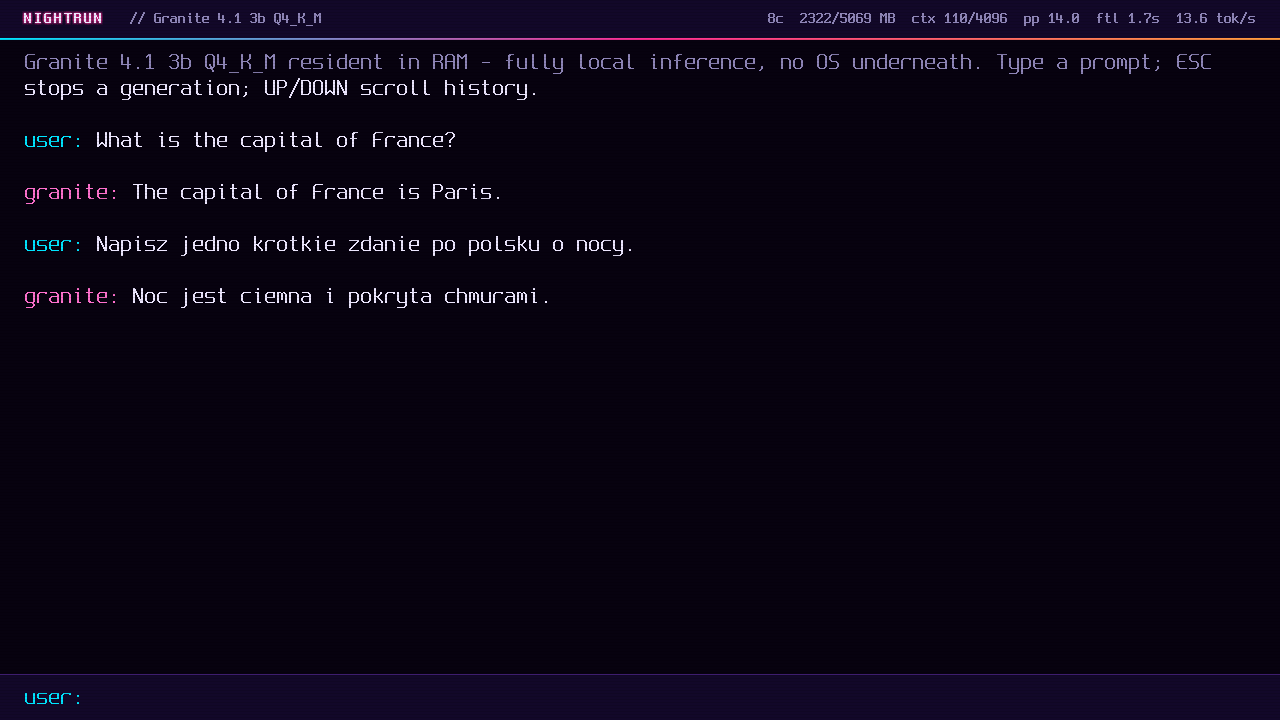
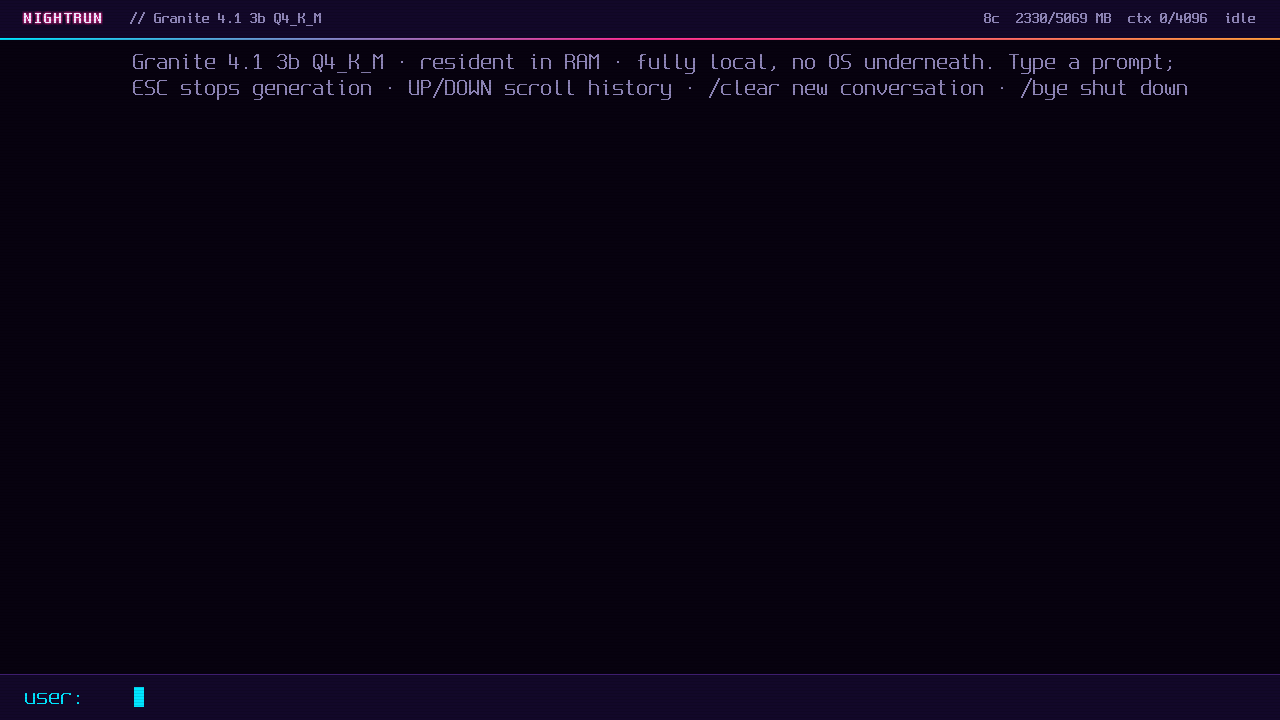
chat ux: fixed content column, two-line intro, /clear, /bye
- all transcript text (user, assistant, system, wrapped continuations)
  and the input line start at one fixed content column; labels render
  left-aligned in their role color; system messages keep the lavender
  accent on every line (the old continuation-color bug made the intro's
  second line white)
- intro is exactly two accent-colored lines: model identity + residency
  on line one, ESC/scroll//clear//bye help on line two
- /clear resets the conversation and KV position without touching the
  resident model; /bye draws a farewell and powers off via UEFI runtime
  services reset (verified: QEMU exits; screendump after /bye finds no
  VM); unknown /commands get a discoverability note instead of being
  sent to the model
- e2e in QEMU (Granite): alignment/intro screenshots, /clear + /bye
  verified; Llama regression clean (5.6s boot, 52 tok/s prefill)

Claude-Session: https://claude.ai/code/session_01KN8jLgUQbmbnQqamZtt1Ur

diff --git a/crates/nr-ui/src/chat.rs b/crates/nr-ui/src/chat.rs
@@ -74,9 +74,10 @@ pub fn draw(
     scroll: usize,
 ) -> usize {
     surf.clear(theme::BG_DEEP);
+    let content_col = "user:".len().max(stats.assistant.len() + 1) + 1;
     status_bar(surf, fonts, stats);
-    input_bar(surf, fonts, input, cursor_on, stats.generating);
-    let scroll = scrollback(surf, fonts, turns, stats.generating, scroll, stats.assistant);
+    input_bar(surf, fonts, input, cursor_on, stats.generating, content_col);
+    let scroll = scrollback(surf, fonts, turns, stats.generating, scroll, stats.assistant, content_col);
     draw::scanlines(surf, 26);
     scroll
 }
@@ -145,7 +146,14 @@ fn status_bar(surf: &mut Surface, fonts: &Fonts, stats: &Stats) {
     draw::text(surf, f, rx, ty, &right, rate_col, 1, 0);
 }
 
-fn input_bar(surf: &mut Surface, fonts: &Fonts, input: &str, cursor_on: bool, generating: bool) {
+fn input_bar(
+    surf: &mut Surface,
+    fonts: &Fonts,
+    input: &str,
+    cursor_on: bool,
+    generating: bool,
+    content_col: usize,
+) {
     let w = surf.width as i32;
     let h = surf.height as i32;
     let y0 = h - INPUT_H;
@@ -158,8 +166,8 @@ fn input_bar(surf: &mut Surface, fonts: &Fonts, input: &str, cursor_on: bool, ge
         draw::text(surf, f, MARGIN, ty, ">> generating - press ESC to stop", theme::TEXT_DIM, 1, 0);
         return;
     }
-    draw::text(surf, f, MARGIN, ty, "user: ", theme::NEON_CYAN, 1, 0);
-    let tx = MARGIN + draw::text_width(f, "user: ", 1, 0);
+    draw::text(surf, f, MARGIN, ty, "user:", theme::NEON_CYAN, 1, 0);
+    let tx = MARGIN + content_col as i32 * f.width as i32;
 
     // Show the tail of the input if it overflows.
     let max_cols = ((w - tx - MARGIN - f.width as i32) / f.width as i32).max(1) as usize;
@@ -182,6 +190,7 @@ fn scrollback(
     generating: bool,
     scroll: usize,
     assistant: &str,
+    content_col: usize,
 ) -> usize {
     let f = &fonts.body;
     let w = surf.width as i32;
@@ -190,38 +199,43 @@ fn scrollback(
     let top = STATUS_H + 10;
     let bottom = h - INPUT_H - 10;
 
-    // Wrap all turns into (color, indent, line) records.
-    let mut lines: Vec<(u32, usize, String)> = Vec::new();
+    // All message text starts at one fixed content column, regardless of
+    // which label (user/llama/qwen/granite/none) precedes it.
+    let _ = assistant;
+    let body_cols = cols.saturating_sub(content_col).max(8);
+
+    // Wrap all turns into (label_color, body_color, label, body) records;
+    // continuation lines carry an empty label.
+    let mut lines: Vec<(u32, u32, String, String)> = Vec::new();
     for (i, turn) in turns.iter().enumerate() {
         if i > 0 {
-            lines.push((0, 0, String::new())); // blank separator
+            lines.push((0, 0, String::new(), String::new())); // separator
         }
-        let prefix = match turn.role {
-            Role::User => String::from("user: "),
+        let label = match turn.role {
+            Role::User => String::from("user:"),
             Role::Llama => {
                 let mut p = String::from(assistant);
-                p.push_str(": ");
+                p.push(':');
                 p
             }
             Role::System => String::new(),
         };
-        let indent = prefix.chars().count();
-        let body_cols = cols.saturating_sub(indent).max(8);
+        // System text keeps its accent color on every line; user/assistant
+        // bodies render in primary.
+        let body_color = match turn.role {
+            Role::System => turn.role.color(),
+            _ => theme::TEXT_PRIMARY,
+        };
         let streaming_tail = generating && i == turns.len() - 1 && turn.role == Role::Llama;
         let mut first = true;
         for line in wrap(&turn.text, body_cols, streaming_tail) {
-            if first {
-                let mut s = prefix.clone();
-                s.push_str(&line);
-                lines.push((turn.role.color(), 0, s));
-                first = false;
-            } else {
-                lines.push((theme::TEXT_PRIMARY, indent, line));
-            }
+            let l = if first { label.clone() } else { String::new() };
+            lines.push((turn.role.color(), body_color, l, line));
+            first = false;
         }
         if first {
-            // Empty turn (streaming just started): show bare prefix.
-            lines.push((turn.role.color(), 0, String::from(prefix.trim_end())));
+            // Empty turn (streaming just started): show the bare label.
+            lines.push((turn.role.color(), body_color, label, String::new()));
         }
     }
 
@@ -233,23 +247,13 @@ fn scrollback(
     let end = lines.len() - scroll;
     let start = end.saturating_sub(max_lines);
     let mut y = top;
-    for (color, indent, line) in &lines[start..end] {
-        if !line.is_empty() {
-            // Prefix in role color, continuation text in primary.
-            let mut assistant_prefix = String::from(assistant);
-            assistant_prefix.push(':');
-            let has_prefix =
-                *indent == 0 && (line.starts_with("user:") || line.starts_with(&assistant_prefix));
-            if has_prefix {
-                let split = line.find(' ').map(|i| i + 1).unwrap_or(line.len());
-                let (pre, rest) = line.split_at(split);
-                draw::text(surf, f, MARGIN, y, pre, *color, 1, 0);
-                draw::text(surf, f, MARGIN + draw::text_width(f, pre, 1, 0), y, rest, theme::TEXT_PRIMARY, 1, 0);
-            } else {
-                let x = MARGIN + *indent as i32 * f.width as i32;
-                let c = if *indent > 0 { theme::TEXT_PRIMARY } else { *color };
-                draw::text(surf, f, x, y, line, c, 1, 0);
-            }
+    let body_x = MARGIN + content_col as i32 * f.width as i32;
+    for (label_color, body_color, label, body) in &lines[start..end] {
+        if !label.is_empty() {
+            draw::text(surf, f, MARGIN, y, label, *label_color, 1, 0);
+        }
+        if !body.is_empty() {
+            draw::text(surf, f, body_x, y, body, *body_color, 1, 0);
         }
         y += line_h;
     }

diff --git a/crates/nr-boot/src/app.rs b/crates/nr-boot/src/app.rs
@@ -256,15 +256,18 @@ fn conventional_ram_mb() -> u32 {
     }
 }
 
-fn chat_loop(p: &mut Platform, surf: &mut nr_gfx::Surface) {
-    let mut turns: Vec<Turn> = Vec::new();
-    turns.push(Turn {
+fn intro_turn(model_name: &str) -> Turn {
+    Turn {
         role: Role::System,
         text: alloc::format!(
-            "{} resident in RAM - fully local inference, no OS underneath. Type a prompt; ESC stops a generation; UP/DOWN scroll history.",
-            p.model_name,
+            "{model_name} · resident in RAM · fully local, no OS underneath. Type a prompt;\nESC stops generation · UP/DOWN scroll history · /clear new conversation · /bye shut down"
         ),
-    });
+    }
+}
+
+fn chat_loop(p: &mut Platform, surf: &mut nr_gfx::Surface) {
+    let mut turns: Vec<Turn> = Vec::new();
+    turns.push(intro_turn(&p.model_name));
     let mut inputline = String::new();
     let mut frame = 0u32;
     let mut last_rate = 0u32;
@@ -282,14 +285,55 @@ fn chat_loop(p: &mut Platform, surf: &mut nr_gfx::Surface) {
                     inputline.pop();
                 }
                 InputEvent::Enter => {
-                    if !inputline.trim().is_empty() {
-                        let prompt = core::mem::take(&mut inputline);
-                        serial_println!("[chat] user: {}", prompt);
-                        turns.push(Turn { role: Role::User, text: prompt.clone() });
-                        scroll = 0; // jump back to live view for the reply
-                        last_rate = generate(p, surf, &prompt, &mut turns, &mut conversation_started, frame);
-                    } else {
-                        inputline.clear();
+                    let prompt = core::mem::take(&mut inputline);
+                    let trimmed = prompt.trim();
+                    scroll = 0;
+                    match trimmed {
+                        "" => {}
+                        "/clear" => {
+                            // Fresh conversation: transcript + KV position
+                            // reset; the model stays resident in RAM.
+                            turns.clear();
+                            turns.push(intro_turn(&p.model_name));
+                            turns.push(Turn {
+                                role: Role::System,
+                                text: String::from("New conversation started."),
+                            });
+                            p.infer.reset();
+                            conversation_started = false;
+                            p.pp_milli = 0;
+                            p.ftl_ms = 0;
+                            last_rate = 0;
+                            serial_println!("[chat] /clear - conversation reset (model resident)");
+                        }
+                        "/bye" => {
+                            turns.push(Turn {
+                                role: Role::System,
+                                text: String::from("Shutting down. Goodbye!"),
+                            });
+                            draw_chat(p, surf, &turns, "", frame, 0, false, 0);
+                            serial_println!("[chat] /bye - shutting down");
+                            stall_us(800_000);
+                            // Real UEFI power-off via runtime services.
+                            uefi::runtime::reset(
+                                uefi::runtime::ResetType::SHUTDOWN,
+                                uefi::Status::SUCCESS,
+                                None,
+                            );
+                        }
+                        cmd if cmd.starts_with('/') => {
+                            turns.push(Turn {
+                                role: Role::System,
+                                text: alloc::format!(
+                                    "unknown command {cmd} · /clear starts a new conversation · /bye shuts down"
+                                ),
+                            });
+                        }
+                        _ => {
+                            serial_println!("[chat] user: {}", trimmed);
+                            turns.push(Turn { role: Role::User, text: String::from(trimmed) });
+                            last_rate = generate(p, surf, trimmed, &mut turns, &mut conversation_started, frame);
+                        }
                     }
                 }
                 InputEvent::Up => scroll = scroll.saturating_add(3),

diff --git a/docs/benchmarks.md b/docs/benchmarks.md
@@ -1,5 +1,22 @@
 # NightRun benchmarks (measured)
 
+## 2026-07-07 update: batched prefill + streaming CRC
+
+Prefill now runs prompt tokens in batches of up to 64 through 4-wide
+register-tiled kernels (bit-identical results to sequential decode —
+tested), and model checksums are computed while chunks stream from disk
+(no post-load verify pass).
+
+| | prefill before | prefill after | llama.cpp | boot-to-chat before | after |
+|---|---|---|---|---|---|
+| Llama 1B Q8_0 | 21 tok/s | **52-56 tok/s** | 60-65 | 8.4 s | **5.6 s** |
+| Qwen3 4B Q4_K_M | 11 tok/s | **~23 tok/s** | 31-32 | 20.7 s | ~13 s (est) |
+| Granite 3B Q4_K_M | 14 tok/s | **23-27 tok/s** | — | 15.0 s | **9.5 s** |
+
+(host prefill sweep: batch 1/8/16/32/64 -> llama 21/…/56, qwen
+11.5/22.9/19.5/19.7/21.6 tok/s; decode unchanged.) First-token latency
+for a ~70-token prompt dropped from ~4.3 s to ~2.9 s (Granite, QEMU).
+
 Environment: QEMU q35, KVM, `-cpu max -smp 8`, OVMF; host: 12 hardware
 threads (AVX2), 15 GB RAM. Date: 2026-07-07. Numbers are single scripted
 runs; QEMU results vary ±20% with host memory pressure (the guest

diff --git a/CLAUDE.md b/CLAUDE.md
@@ -71,6 +71,12 @@ cargo run --release -p nrhost -- models/model.nrm --prompt "..." [--raw] \
   come from `scripts/gen_tokenizer_fixtures.py` + official HF tokenizers
   (with split_special_tokens=True — user text never encodes to control
   tokens); the Qwen chat template is pinned to `apply_chat_template`.
+- Prompt processing goes through `InferCtx::prefill_chunk` (batched, max
+  64 tokens/pass, bit-identical to sequential `forward` — pinned by
+  tests/prefill.rs); decode stays token-at-a-time. Model checksums are
+  verified *while* loading (`nr-model::verify::StreamingVerifier`) — there
+  is no post-load CRC pass. Chat commands: /clear (reset conversation,
+  keep model), /bye (UEFI shutdown).
 - No allocations in the generation loop: model tensors are zero-copy views
   into the loaded blob; KV cache + scratch come from the boot-time arena,
   sized from `InferCtx::required_bytes` — update it when adding buffers.

diff --git a/README.md b/README.md
@@ -107,7 +107,9 @@ contents.) Then boot the target machine from USB (F12/F10/Esc boot menu,
 UEFI mode, Secure Boot disabled).
 
 In the chat: type and press Enter; **ESC** stops a running generation;
-**Up/Down** (and PgUp/PgDn) scroll the conversation history.
+**Up/Down** (and PgUp/PgDn) scroll the conversation history;
+**`/clear`** starts a fresh conversation (model stays in RAM);
+**`/bye`** performs a real UEFI power-off.
 Serial console (COM1 115200) carries debug logs.
 
 ## How it works
